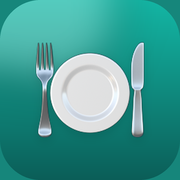
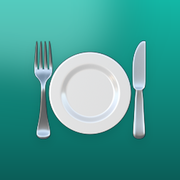
Add files via upload

diff --git a/index.html b/index.html
@@ -13,10 +13,10 @@
 <meta name="apple-mobile-web-app-status-bar-style" content="default">
 <meta name="apple-mobile-web-app-title" content="Planner">
 <meta name="application-name" content="Planner">
-<link rel="manifest" href="manifest.webmanifest?v=2">
+<link rel="manifest" href="manifest.webmanifest?v=3">
 <link rel="preconnect" href="https://fonts.googleapis.com"><link rel="preconnect" href="https://fonts.gstatic.com" crossorigin>
-<link rel="apple-touch-icon" href="icon-180.png?v=2">
-<link rel="icon" type="image/png" sizes="192x192" href="icon-192.png?v=2">
+<link rel="apple-touch-icon" href="icon-180.png?v=3">
+<link rel="icon" type="image/png" sizes="192x192" href="icon-192.png?v=3">
 <!--
   ============================================================================
   PLANNER WEEKLY  —  Single-file offline app (HTML + CSS + JS inline)
@@ -758,7 +758,7 @@ code.block{ border-radius:12px; }
    inchiostro 2px e ombra dura 3px (2px per i piccoli). Niente raggi, sfumature,
    trasparenze. Titoli serif rosa con ombra azzurra.
    =========================================================================== */
-:root[data-style="carte"]{
+:root[data-style="carte"], :root[data-style="carte"][data-accent]{
   --ck-ink:#222222; --ck-avorio:#F7EFE2; --ck-rosa:#D6216F; --ck-azzurro:#36ADE0; --ck-macchia:#D6CFC2;
   --ck-tenue:#6E6458; --ck-barra:#DDD4C4; --ck-giallo:#EFD63A; --ck-verde:#3F9F4A; --ck-arancio:#E39A43;
   --ck-rosa-chiara:#F6D3E2; --ck-azzurro-chiaro:#D4ECF7; --ck-giallo-chiaro:#F9F2C9; --ck-verde-chiaro:#D6EBD8; --ck-arancio-chiaro:#F8E6D0;
@@ -923,7 +923,7 @@ code.block{ border-radius:12px; }
    =========================================================================== */
 
 /* ---------- condivisi: regole sui componenti letti dai token ---------- */
-:root[data-style="mercato"], :root[data-style="pastello"], :root[data-style="mono"], :root[data-style="fumetto"]{
+:root[data-style="mercato"], :root[data-style="pastello"], :root[data-style="mono"], :root[data-style="fumetto"], :root[data-style="fumetto"][data-accent]{
   --glass:var(--surface); --glass-border:var(--border);
 }
 :root[data-style="mercato"] .app-header, :root[data-style="pastello"] .app-header, :root[data-style="mono"] .app-header, :root[data-style="fumetto"] .app-header,
@@ -931,7 +931,7 @@ code.block{ border-radius:12px; }
 :root[data-style="mercato"] .modal-backdrop, :root[data-style="mono"] .modal-backdrop, :root[data-style="fumetto"] .modal-backdrop{ backdrop-filter:none; }
 
 /* =========================== MERCATO (Banco frigo) =========================== */
-:root[data-style="mercato"]{
+:root[data-style="mercato"], :root[data-style="mercato"][data-accent]{
   --font-display:"Oswald","Arial Narrow",Impact,sans-serif; --font-body:"Nunito Sans","Avenir Next","Segoe UI",system-ui,sans-serif;
   --bg:#dfe7ee; --surface:#ffffff; --surface-2:#f2f6f9; --text:#142033; --text-soft:#44536a; --text-mute:#5c6b80;
   --border:#bccad8; --border-strong:#142033;
@@ -1003,7 +1003,7 @@ code.block{ border-radius:12px; }
 :root[data-style="mercato"] .cd{ border-radius:4px; }
 
 /* =========================== PASTELLO =========================== */
-:root[data-style="pastello"]{
+:root[data-style="pastello"], :root[data-style="pastello"][data-accent]{
   --font-display:"Quicksand","Avenir Next Rounded","Nunito",system-ui,sans-serif; --font-body:"Nunito","Avenir Next","Segoe UI",system-ui,sans-serif;
   --bg:#dfe6ee; --surface:#ffffff; --surface-2:#eef2f8; --text:#2a3340; --text-soft:#4f5b6c; --text-mute:#6f7a8a;
   --border:#e3e8ef; --border-strong:#c9d2de;
@@ -1071,7 +1071,7 @@ code.block{ border-radius:12px; }
 :root[data-style="pastello"] .imp-dot{ width:8px; height:8px; }
 
 /* =========================== MONOSPAZIO =========================== */
-:root[data-style="mono"]{
+:root[data-style="mono"], :root[data-style="mono"][data-accent]{
   --font-display:"IBM Plex Mono","SF Mono",Menlo,Consolas,monospace; --font-body:"IBM Plex Mono","SF Mono",Menlo,Consolas,monospace;
   --bg:#e6e8e3; --surface:#ffffff; --surface-2:#f5f6f2; --text:#1b1f1c; --text-soft:#454c47; --text-mute:#5f6861;
   --border:#1b1f1c; --border-strong:#1b1f1c;
@@ -1146,7 +1146,7 @@ code.block{ border-radius:12px; }
 :root[data-style="mono"] *{ transition:none !important; }
 
 /* =========================== FUMETTO =========================== */
-:root[data-style="fumetto"]{
+:root[data-style="fumetto"], :root[data-style="fumetto"][data-accent]{
   --font-display:"Bangers","Impact","Arial Black",sans-serif; --font-body:"Nunito","Avenir Next","Segoe UI",system-ui,sans-serif;
   --bg:#f7f7f4; --surface:#ffffff; --surface-2:#f1f1ec; --text:#111111; --text-soft:#333333; --text-mute:#555555;
   --border:#111111; --border-strong:#111111;
@@ -1352,10 +1352,10 @@ code.block{ border-radius:12px; }
 :root[data-style="lavagna"] .bc-row .bc-name{ font-size:var(--fs-base); }
 :root[data-style="lavagna"] .cd{ border-radius:4px; }
 /* =========================== LAVAGNA DEL MERCATO (Mercato in versione lavagna) =========================== */
-:root[data-style="lavagna"]{
+:root[data-style="lavagna"], :root[data-style="lavagna"][data-accent]{
   --font-display:"Oswald","Arial Narrow",Impact,sans-serif; --font-body:"Nunito Sans","Avenir Next","Segoe UI",system-ui,sans-serif;
-  --bg:#243129; --surface:#2c3b32; --surface-2:#34463b; --text:#f4efe4; --text-soft:#d6d9cf; --text-mute:#aeb8ae;
-  --border:#5f6f64; --border-strong:#f4efe4; --glass:#243129; --glass-border:#5f6f64;
+  --bg:#243129; --surface:#2a3930; --surface-2:#33453a; --text:#f4efe4; --text-soft:#dcdfd4; --text-mute:#bfc7bd;
+  --border:#7d8c80; --border-strong:#f4efe4; --glass:#243129; --glass-border:#7d8c80;
   --accent:#ffd166; --accent-2:#ffdc85; --accent-strong:#ffd166; --accent-contrast:#1f2a24; --accent-ring:rgba(255,209,102,.4); --accent-soft:#4a4426; --accent-grad:#ffd166;
   --danger:#ff7b7b; --danger-soft:#4a2a2a; --warn:#ffd166; --ok:#7bd389; --u-green:#7bd389; --u-yellow:#ffd166; --u-orange:#ffa96b; --u-red:#ff7b7b;
   --radius:8px; --radius-sm:8px; --radius-lg:10px; --radius-btn:6px; --shadow-1:none; --shadow-2:0 10px 30px rgba(0,0,0,.4);
@@ -1379,7 +1379,13 @@ code.block{ border-radius:12px; }
 :root[data-style="lavagna"] .tk-chip.red{ background:transparent; color:var(--danger); border-color:var(--danger); } :root[data-style="lavagna"] .tk-chip.orange{ background:transparent; color:var(--u-orange); border-color:var(--u-orange); } :root[data-style="lavagna"] .tk-chip.yellow{ background:transparent; color:var(--accent); border-color:var(--accent); }
 :root[data-style="lavagna"] .pg-day.is-today .d-num, :root[data-style="lavagna"] .pl-row.is-today .d-num, :root[data-style="lavagna"] .agenda-day.is-today .d-num{ color:var(--accent); }
 :root[data-style="lavagna"] .pg-day .d-today{ background:var(--accent); color:var(--accent-contrast); }
-:root[data-style="lavagna"] .pl-row, :root[data-style="lavagna"] .agenda-day, :root[data-style="lavagna"] .meal-cell, :root[data-style="lavagna"] .imp-cell, :root[data-style="lavagna"] .card, :root[data-style="lavagna"] .shop-item, :root[data-style="lavagna"] .rec-card, :root[data-style="lavagna"] .shop-panel, :root[data-style="lavagna"] .empty-state{ background:rgba(244,239,228,.06); border-color:rgba(244,239,228,.35); }
+:root[data-style="lavagna"] .pl-row, :root[data-style="lavagna"] .agenda-day, :root[data-style="lavagna"] .meal-cell, :root[data-style="lavagna"] .imp-cell, :root[data-style="lavagna"] .card, :root[data-style="lavagna"] .shop-item, :root[data-style="lavagna"] .rec-card, :root[data-style="lavagna"] .shop-panel, :root[data-style="lavagna"] .empty-state{ background:rgba(244,239,228,.07); border:1.5px solid rgba(244,239,228,.5); }
+:root[data-style="lavagna"] .meal-cell.is-empty{ border:1.5px dashed rgba(244,239,228,.45); background:transparent; }
+:root[data-style="lavagna"] .pg-day{ border-bottom:2px dashed rgba(244,239,228,.6); }
+:root[data-style="lavagna"] .pg-day .d-wd, :root[data-style="lavagna"] .pl-day .d-wd, :root[data-style="lavagna"] .ag-date .d-wd{ color:var(--text-mute); }
+:root[data-style="lavagna"] .meal-cell .m-title{ color:#ffffff; }
+:root[data-style="lavagna"] .imp-row .imp-title, :root[data-style="lavagna"] .si-name{ color:var(--text); }
+:root[data-style="lavagna"] .rl-letter{ color:var(--text-mute); }
 :root[data-style="lavagna"] .pl-row.is-today, :root[data-style="lavagna"] .agenda-day.is-today{ border-color:var(--accent); box-shadow:inset 0 0 0 1px var(--accent); background:rgba(255,209,102,.08); }
 :root[data-style="lavagna"] .meal-cell:hover{ background:rgba(244,239,228,.12); }
 :root[data-style="lavagna"] .meal-cell.is-empty{ color:var(--text-mute); }
@@ -1441,7 +1447,7 @@ code.block{ border-radius:12px; }
 <!-- ======================= FOOTER ======================= -->
 <footer class="app-footer" role="contentinfo">
   <div class="container flex justify-between flex-wrap gap-2">
-    <span>Planner Weekly · dati salvati solo sul tuo dispositivo · nessuna rete</span>
+    <span>Planner Weekly <span id="ft-ver"></span> · dati salvati solo sul tuo dispositivo · nessuna rete</span>
     <span>Scorciatoie: <kbd>G</kbd> Planner · <kbd>R</kbd> Ricette · <kbd>S</kbd> Spesa · <kbd>T</kbd> To-Do</span>
   </div>
 </footer>
@@ -1731,13 +1737,16 @@ const Theme = (function(){
   function apply(){
     const s = Store.get().settings;
     const html = document.documentElement;
-    html.setAttribute("data-theme", s.theme==="dark"?"dark":"light");
-    html.setAttribute("data-accent", s.accent||"teal");
     const STYLES=["moderno","carte","mercato","lavagna","pastello","mono","fumetto"];
     const style=STYLES.includes(s.style)?s.style:"moderno";
     html.setAttribute("data-style", style);
+    // Tema chiaro/scuro e colore d'accento valgono solo per Moderno: gli altri stili hanno colori fissi, come nelle anteprime
+    html.setAttribute("data-theme", (style==="moderno" && s.theme==="dark")?"dark":"light");
+    html.setAttribute("data-accent", style==="moderno"?(s.accent||"teal"):"teal");
     // carattere dello stile caricato solo quando serve (Google Fonts); il service worker lo tiene in cache
     const FONTS={ mercato:"Oswald:wght@500;600&family=Nunito+Sans:wght@500;700;800", lavagna:"Oswald:wght@500;600&family=Nunito+Sans:wght@500;700;800", pastello:"Quicksand:wght@600;700&family=Nunito:wght@500;700;800", mono:"IBM+Plex+Mono:wght@500;600;700", fumetto:"Bangers&family=Nunito:wght@500;700;800" };
+    const TC={moderno:(s.theme==="dark"?"#161b25":"#0d9488"), carte:"#D6216F", mercato:"#142033", lavagna:"#8a5a2b", pastello:"#dfe6ee", mono:"#1b1f1c", fumetto:"#111111"};
+    document.querySelectorAll('meta[name="theme-color"]').forEach(m=>m.setAttribute("content", TC[style]||"#0d9488"));
     if(FONTS[style] && !document.getElementById("font-"+style)){
       const l=document.createElement("link"); l.id="font-"+style; l.rel="stylesheet"; l.href="https://fonts.googleapis.com/css2?family="+FONTS[style]+"&display=swap"; document.head.appendChild(l);
     }
@@ -2924,8 +2933,8 @@ function renderSettings(){
       <!-- ASPETTO -->
       <div class="set-group">
         <h3>Aspetto</h3>
-        <div class="set-row">
-          <div class="set-label"><label class="mb-0">Tema</label><small>Chiaro o scuro</small></div>
+        <div class="set-row" id="theme-row" ${(s.style||'mono')==='moderno'?'':'hidden'}>
+          <div class="set-label"><label class="mb-0">Tema</label><small>Chiaro o scuro (solo per lo stile Moderno)</small></div>
           <div class="seg" role="group" aria-label="Tema">
             <button type="button" data-theme-opt="light" aria-pressed="${s.theme!=='dark'}">☀ Chiaro</button>
             <button type="button" data-theme-opt="dark" aria-pressed="${s.theme==='dark'}">🌙 Scuro</button>
@@ -2943,8 +2952,8 @@ function renderSettings(){
             ${[["bosco","#0f7a4d","Verde bosco"],["inchiostro","#1f4fb8","Blu inchiostro"],["ambra","#b8690a","Ambra"],["prugna","#7a2f8a","Prugna"]].map(([k,c,l])=>`<button type="button" class="swatch" data-mono-opt="${k}" aria-pressed="${(s.monoColor||'bosco')===k}" aria-label="${l}" title="${l}" style="background:${c}"></button>`).join("")}
           </div>
         </div>
-        <div class="set-row">
-          <div class="set-label"><label class="mb-0">Colore accento</label><small>Anteprima live</small></div>
+        <div class="set-row" id="accent-row" ${(s.style||'mono')==='moderno'?'':'hidden'}>
+          <div class="set-label"><label class="mb-0">Colore accento</label><small>Solo per lo stile Moderno: gli altri stili hanno i loro colori</small></div>
           <div class="swatch-row" role="group" aria-label="Colore accento">
             ${["teal","blue","coral","violet","amber"].map(c=>`
               <button type="button" class="swatch" data-accent-opt="${c}" aria-pressed="${s.accent===c}"
@@ -3084,7 +3093,8 @@ function renderSettings(){
         <div class="flex gap-2 flex-wrap items-center">
           <span class="chip" id="pwa-status">…</span>
           <span class="chip" id="pwa-storage" hidden></span>
-          <button class="btn btn-sm" id="pwa-update" hidden>🔄 Aggiorna app</button>
+          <span class="chip" title="Versione dell'app in uso">v. ${APP_VERSION}</span>
+          <button class="btn btn-sm" id="pwa-reload" title="Scarica di nuovo l'app dal sito (i dati restano)">🔄 Ricarica l'app</button>
         </div>
       </div>
 
@@ -3146,6 +3156,8 @@ create policy "anon full access" on sync_store
     setSetting("style", b.dataset.styleOpt); Theme.apply();
     el.querySelectorAll("[data-style-opt]").forEach(x=>x.setAttribute("aria-pressed", x===b));
     const mr=el.querySelector("#mono-row"); if(mr) mr.hidden=(b.dataset.styleOpt!=="mono");
+    const ar=el.querySelector("#accent-row"); if(ar) ar.hidden=(b.dataset.styleOpt!=="moderno");
+    const tr=el.querySelector("#theme-row"); if(tr) tr.hidden=(b.dataset.styleOpt!=="moderno");
   }));
   el.querySelectorAll("[data-mono-opt]").forEach(b=>b.addEventListener("click",()=>{
     setSetting("monoColor", b.dataset.monoOpt); Theme.apply();
@@ -5187,6 +5199,7 @@ function escapeAttr(str){ return escapeHtml(str); }
      una memoria separata da Safari: il reset del browser non le tocca.
    - Mostra un suggerimento di installazione una sola volta su iPad/iPhone.
 --------------------------------------------------------------------------- */
+const APP_VERSION = "2026-10-11.11";
 const Pwa = (function(){
   const isIOS = /iPad|iPhone|iPod/.test(navigator.userAgent) || (navigator.platform==="MacIntel" && navigator.maxTouchPoints>1);
   const standalone = window.navigator.standalone===true || (window.matchMedia && window.matchMedia("(display-mode: standalone)").matches);
@@ -5262,9 +5275,15 @@ const Pwa = (function(){
       }
     }catch(e){}
   }
+  async function hardReload(){
+    Toast.show("Ricarico l'app dal sito…","ok",2000);
+    try{ const regs=await navigator.serviceWorker.getRegistrations(); for(const r of regs) await r.unregister(); }catch(e){}
+    try{ const keys=await caches.keys(); for(const k of keys) await caches.delete(k); }catch(e){}
+    setTimeout(()=>{ location.href=location.pathname+"?r="+Date.now(); }, 600);
+  }
   function renderSettings(el){
     refreshStatus(el);
-    const b=el.querySelector("#pwa-update"); if(b) b.addEventListener("click", applyUpdate);
+    const b=el.querySelector("#pwa-reload"); if(b) b.addEventListener("click", hardReload);
   }
   return { init, renderSettings, isIOS, standalone };
 })();
@@ -5306,6 +5325,7 @@ function boot(){
 
   // web app installabile: service worker, memoria persistente, suggerimento iPad
   Pwa.init();
+  const fv=document.getElementById("ft-ver"); if(fv) fv.textContent="v. "+APP_VERSION;
   // telefono ↔ tablet: al cambio di larghezza il planner si ridisegna con la disposizione giusta
   if(window.matchMedia){ const mq=window.matchMedia("(max-width: 700px)"); const onChange=()=>{ if(Router.currentName()==="planner") Router.go("planner"); }; if(mq.addEventListener) mq.addEventListener("change", onChange); else if(mq.addListener) mq.addListener(onChange); }
 

diff --git a/sw.js b/sw.js
@@ -3,8 +3,8 @@
    arrivano appena pubblicati; se non c'è rete si usa la copia in cache.
    Icone e manifest: prima cache, poi rete.
    Per forzare un aggiornamento della cache basta cambiare VERSION. */
-const VERSION = "pw-2026-10-11-7";
-const CORE = ["./", "./index.html", "./manifest.webmanifest?v=2", "./icon-180.png?v=2", "./icon-192.png?v=2", "./icon-512.png?v=2", "./icon-512-maskable.png?v=2"];
+const VERSION = "pw-2026-10-11-11";
+const CORE = ["./", "./index.html", "./manifest.webmanifest?v=3", "./icon-180.png?v=3", "./icon-192.png?v=3", "./icon-512.png?v=3", "./icon-512-maskable.png?v=3"];
 
 self.addEventListener("install", (e) => {
   e.waitUntil(caches.open(VERSION).then((c) => c.addAll(CORE)).then(() => self.skipWaiting()));
